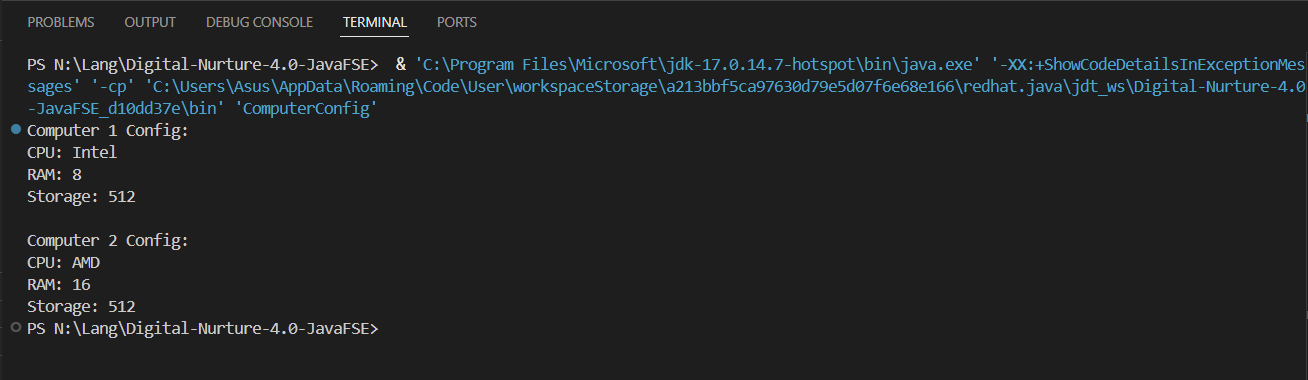
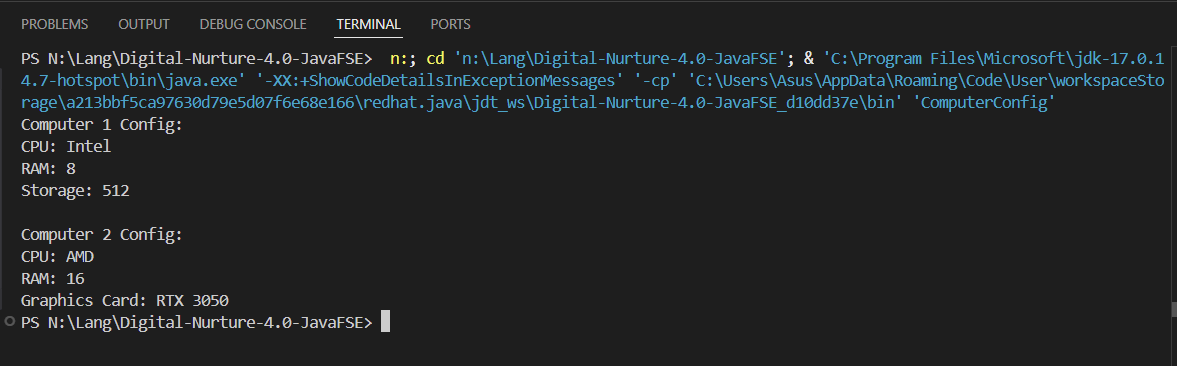
Outputs were added

diff --git a/Week 1/Design Patterns and Principles/BuilderPatternExample/ComputerConfig.java b/Week 1/Design Patterns and Principles/BuilderPatternExample/ComputerConfig.java
@@ -13,7 +13,7 @@ public class ComputerConfig {
         System.out.println("Computer 2 Config:");
         System.out.println("CPU: " + GamingPC.getCPU());
         System.out.println("RAM: " + GamingPC.getRAM());
-        System.out.println("Storage: " + GamingPC.getStorage());
+        System.out.println("Graphics Card: " + GamingPC.getGPU());
 
 
     }

diff --git a/Week 1/Design Patterns and Principles/BuilderPatternExample/Computer.java b/Week 1/Design Patterns and Principles/BuilderPatternExample/Computer.java
@@ -38,6 +38,10 @@ public class Computer {
         this.GPU = GPU;
     }
 
+    public String getGPU(){
+        return GPU;
+    }
+
     
 
     public static class ComputerBuilder{
